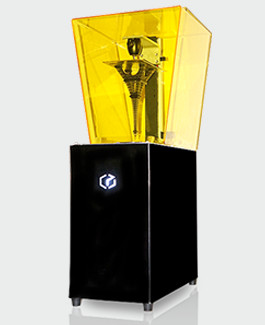
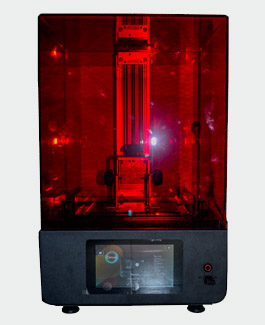
Добавлены отзывы и изменены изображения принтера

diff --git a/index.html b/index.html
@@ -16,6 +16,45 @@
     <title>Заказ 3D печати в Запорожье - цены на услуги 3Д печати | maxi-life.in.ua</title>
   </head>
     <body>
+<!-- Google.Analytics counter -->
+      <script>
+        (function(i,s,o,g,r,a,m){i['GoogleAnalyticsObject']=r;i[r]=i[r]||function(){
+        (i[r].q=i[r].q||[]).push(arguments)},i[r].l=1*new Date();a=s.createElement(o),
+        m=s.getElementsByTagName(o)[0];a.async=1;a.src=g;m.parentNode.insertBefore(a,m)
+        })(window,document,'script','https://www.google-analytics.com/analytics.js','ga');
+
+        ga('create', 'UA-93646705-1', 'auto');
+        ga('send', 'pageview');
+
+      </script>
+<!-- end Google.Analytics counter -->
+<!-- Yandex.Metrika counter -->
+      <script type="text/javascript">
+          (function (d, w, c) {
+              (w[c] = w[c] || []).push(function() {
+                  try {
+                      w.yaCounter43428764 = new Ya.Metrika({
+                          id:43428764,
+                          clickmap:true,
+                          trackLinks:true,
+                          accurateTrackBounce:true
+                      });
+                  } catch(e) { }
+              });
+
+              var n = d.getElementsByTagName("script")[0],
+                  s = d.createElement("script"),
+                  f = function () { n.parentNode.insertBefore(s, n); };
+              s.type = "text/javascript";
+              s.async = true;
+              s.src = "https://mc.yandex.ru/metrika/watch.js";
+              if (w.opera == "[object Opera]") {
+                  d.addEventListener("DOMContentLoaded", f, false);
+              } else { f(); }
+          })(document, window, "yandex_metrika_callbacks");
+      </script>
+      <noscript><div><img src="https://mc.yandex.ru/watch/43428764" style="position:absolute; left:-9999px;" alt="" /></div></noscript>
+<!-- /Yandex.Metrika counter -->
       <header class="main-header">
         <div class="container clear-fix">
           <div class="main-logo">
@@ -79,6 +118,7 @@
                   </span>
                 </a>
             </div>
+            <h1 class="nav-headline">Заказ 3D печати в Запорожье по доступным ценам.</h1>
           </nav>
         </div>
       </header>
@@ -187,9 +227,9 @@
             <!--модальные окна-->
             <div class="md-modal md-effect-14" id="modal-1">
     		    	<div class="md-content">
-                <p>HI!</p>
-                <p>Модальное окно 1</P>
-    					  <button class="md-close">Close me!</button>
+                <p>Миниатюра "Ждун"</p>
+                <p>Размеры: 4см х 3см х 6см</P>
+    					  <button class="md-close">Х</button>
     				  </div>
       			</div><!--конец модального окна-->
             <div class="md-modal md-effect-14" id="modal-2">
@@ -412,8 +452,8 @@
                       Быстро, качественно, дешево - выберите 2 важных для Вас пункта.
                     </p>
                     <p>тел: &nbsp; <span>+3(066)-550-19-16</span></p>
-                    <p>тел: &nbsp; <span>+3(066)-550-28-48</span></p>
-                    <p>e-mail: &nbsp; <span>sm@maxi-life.in.ua</span></p>
+                    <p>тел: &nbsp; <span>+3(068)-550-28-48</span></p>
+                    <p>e-mail: &nbsp; <span>maxims@maxi-life.in.ua</span></p>
                   </div>
                   <div class="triangle"></div>
                   <img src="img/team_2.jpg" title = "Максим Шумаков" alt="Максим Шумаков">
@@ -451,12 +491,14 @@
                       <div class="quite-up"></div>
                       <div class="quite-down"></div>
                       <p>
-                          Добрый день всем! Заказывал у этих ребят несколько макетов.
-                          Получилось отлично. Цена и качество очень порадовали.
+                        Уверен, ещё не раз буду обращаться! <br>
+                        Ваш профессионализм исполнения работы, порядочность,
+                        пунктуальность дают понимание того, что мой выбор был сделан правильно.<br>
+                        Всегда выполняют работу в срок, быстро и качественно.
                       </p>
                     </div>
                     <div class="reviews-profile-text-date">
-                      <p>14-11-2016</p>
+                      <p>10-03-2017</p>
                     </div>
                   </div>
                   <div class="cols col-2 reviews-profile">
@@ -474,19 +516,15 @@
                       <div class="quite-up"></div>
                       <div class="quite-down"></div>
                       <p>
-                        Lorem ipsum dolor sit amet, consectetur
-                        adipisicing elit, sed do eiusmod tempor
-                        incididunt ut labore et dolore magna aliqua.
-                        Ut enim ad minim veniam, quis nostrud exercitation
-                        ullamco laboris nisi ut aliquip ex ea commodo consequat.
-                        Duis aute irure dolor in reprehenderit in voluptate
-                        velit esse cillum dolore eu fugiat nulla pariatur.
-                        Excepteur sint occaecat cupidatat non proident, sunt in
-                        culpa qui officia deserunt mollit anim id est laborum.
+                        Спасибо.
+                        Все быстро, оперативно и качественно.
+                        Несмотря на то, что задача оказалась несколько сложнее чем предполагалось,
+                        исполнитель справился на отлично.
+                        Будем в дальнейшем обращаться.
                       </p>
                     </div>
                     <div class="reviews-profile-text-date">
-                      <p>14-11-2016</p>
+                      <p>02-03-2017</p>
                     </div>
                   </div>
                   <div class="cols col-2 reviews-profile">
@@ -504,23 +542,16 @@
                       <div class="quite-up"></div>
                       <div class="quite-down"></div>
                       <p>
-                          Делали для меня несколько статуэток.
-                          Была приятно удивлена быстротой выполнения заказа.
-                          А так же порадовал профессиональный подход,
-                          посоветовали как добится желаемого результата.
-                          Lorem ipsum dolor sit amet, consectetur
-                          adipisicing elit, sed do eiusmod tempor
-                          incididunt ut labore et dolore magna aliqua.
-                          Ut enim ad minim veniam, quis nostrud exercitation
-                          ullamco laboris nisi ut aliquip ex ea commodo consequat.
-                          Duis aute irure dolor in reprehenderit in voluptate
-                          velit esse cillum dolore eu fugiat nulla pariatur.
-                          Excepteur sint occaecat cupidatat non proident, sunt in
-                          culpa qui officia deserunt mollit anim id est laborum.
+                        Прекрасная работа, быстро и качественно.
+                        Задание выполнено с опережением сроков, по ходу работы
+                        возникали изменения, все они принимались безоговорочно,
+                        работа выполнена грамотно и качественно. <br>
+                        Заказ на отлично и в срок.
+                        Ещё раз убеждаюсь в его профессионализме.
                       </p>
                     </div>
                     <div class="reviews-profile-text-date">
-                      <p>10-12-2016</p>
+                      <p>01-03-2017</p>
                     </div>
                   </div>
                   <div class="cols col-2 reviews-profile">
@@ -538,37 +569,14 @@
                       <div class="quite-up"></div>
                       <div class="quite-down"></div>
                       <p>
-                        Lorem ipsum dolor sit amet, consectetur
-                        adipisicing elit, sed do eiusmod tempor
-                        incididunt ut labore et dolore magna aliqua.
-                        Ut enim ad minim veniam, quis nostrud exercitation
-                        ullamco laboris nisi ut aliquip ex ea commodo consequat.
-                        Duis aute irure dolor in reprehenderit in voluptate
-                        velit esse cillum dolore eu fugiat nulla pariatur.
-                        Excepteur sint occaecat cupidatat non proident, sunt in
-                        culpa qui officia deserunt mollit anim id est laborum.
-                        Lorem ipsum dolor sit amet, consectetur
-                        adipisicing elit, sed do eiusmod tempor
-                        incididunt ut labore et dolore magna aliqua.
-                        Ut enim ad minim veniam, quis nostrud exercitation
-                        ullamco laboris nisi ut aliquip ex ea commodo consequat.
-                        Duis aute irure dolor in reprehenderit in voluptate
-                        velit esse cillum dolore eu fugiat nulla pariatur.
-                        Excepteur sint occaecat cupidatat non proident, sunt in
-                        culpa qui officia deserunt mollit anim id est laborum.
-                        Lorem ipsum dolor sit amet, consectetur
-                        adipisicing elit, sed do eiusmod tempor
-                        incididunt ut labore et dolore magna aliqua.
-                        Ut enim ad minim veniam, quis nostrud exercitation
-                        ullamco laboris nisi ut aliquip ex ea commodo consequat.
-                        Duis aute irure dolor in reprehenderit in voluptate
-                        velit esse cillum dolore eu fugiat nulla pariatur.
-                        Excepteur sint occaecat cupidatat non proident, sunt in
-                        culpa qui officia deserunt mollit anim id est laborum.
+                        Подходом к работе остался доволен.
+                        Время всегда распределяет точно и соблюдает сроки.
+                        Спасибо за работу и терпение!
+                        Надеюсь на долгое сотрудничество.
                       </p>
                     </div>
                     <div class="reviews-profile-text-date">
-                      <p>10-12-2016</p>
+                      <p>18-02-2017</p>
                     </div>
                   </div>
                   <div class="cols col-2 reviews-profile">
@@ -576,6 +584,81 @@
                       <img src="img/profile.png" alt="profile">
                       <div class="profile-name">
                         <p>Саша</p>
+                      </div>
+                    </div>
+                  </div>
+                </div>
+                <div class="reviews-gallery-content clear-fix">
+                  <div class="cols col-9 reviews-content">
+                    <div class="reviews-content-text">
+                      <div class="quite-up"></div>
+                      <div class="quite-down"></div>
+                      <p>
+                        Всегда на связи, подробно отвечает на все вопросы.
+                        Адекватный и толковый исполнитель.
+                        Быстро и качественно!
+                        Все выполнил в срок.
+                      </p>
+                    </div>
+                    <div class="reviews-profile-text-date">
+                      <p>09-02-2017</p>
+                    </div>
+                  </div>
+                  <div class="cols col-2 reviews-profile">
+                    <div class="reviews-profile-icon">
+                      <img src="img/profile.png" alt="profile">
+                      <div class="profile-name">
+                        <p>Макс</p>
+                      </div>
+                    </div>
+                  </div>
+                </div>
+                <div class="reviews-gallery-content clear-fix">
+                  <div class="cols col-9 reviews-content">
+                    <div class="reviews-content-text">
+                      <div class="quite-up"></div>
+                      <div class="quite-down"></div>
+                      <p>
+                        Заказывала для сына набор фигур для настольной игры.
+                        Качество и цена приятно удивили.
+                        Очень рада, что успели ко дню рождения. Огромное спасибо за профессиональный подход к делу!
+                        Осталась очень довольна.
+                      </p>
+                    </div>
+                    <div class="reviews-profile-text-date">
+                      <p>01-02-2017</p>
+                    </div>
+                  </div>
+                  <div class="cols col-2 reviews-profile">
+                    <div class="reviews-profile-icon">
+                      <img src="img/profile.png" alt="profile">
+                      <div class="profile-name">
+                        <p>Маша</p>
+                      </div>
+                    </div>
+                  </div>
+                </div>
+                <div class="reviews-gallery-content clear-fix">
+                  <div class="cols col-9 reviews-content">
+                    <div class="reviews-content-text">
+                      <div class="quite-up"></div>
+                      <div class="quite-down"></div>
+                      <p>
+                        Про услуги 3D печати узнал совсем недавно, решил для себя попробовать,
+                        насколько интересно и рентабельно, а самое главное качественно получатся изделия для моего бизнеса.
+                        Не пожалел тем, что обратился в Maxi-life. Действительно, ребята подходят к делу с головой.
+                        А самое главное, нашли подход к такому требовательному клиенту, как я!
+                      </p>
+                    </div>
+                    <div class="reviews-profile-text-date">
+                      <p>23-01-2017</p>
+                    </div>
+                  </div>
+                  <div class="cols col-2 reviews-profile">
+                    <div class="reviews-profile-icon">
+                      <img src="img/profile.png" alt="profile">
+                      <div class="profile-name">
+                        <p>Владимир</p>
                       </div>
                     </div>
                   </div>

diff --git a/css/style.css b/css/style.css
@@ -12,7 +12,6 @@ body{
   margin: 0 auto;
   background: #191919;
   color: #ffffff;
-  color: #ffffff;
   font-family:'Rubik', 'Arial' , sans-serif;
   text-transform: uppercase;
   font-size: 100%/1.5em;
@@ -401,6 +400,12 @@ body{
 }
 /*end main-menu effect*/
 
+.nav-headline{
+  text-align: center;
+  color: #505050;
+  font-size: 0.8em;
+}
+
 .say-hello{
   position: relative;
   background: rgba(255, 255, 255, 0.7) url("../img/bg_main.jpg") no-repeat;
@@ -469,7 +474,7 @@ body{
   cursor: pointer;
   background: inherit;
   text-decoration: none;
-  text-shadow: 0px 2px 1.5px black;
+  font-weight: bold;
   line-height: normal;
   color: #666666;
   text-align: center;
@@ -723,8 +728,8 @@ body{
 	top: 50%;
 	left: 50%;
 	width: 50%;
-	max-width: 330px;
-	min-width: 220px;
+	max-width: 30%;
+	min-width: 20%;
 	height: auto;
 	z-index: 2000;
 	visibility: hidden;
@@ -762,22 +767,27 @@ body{
 }
 
 .md-content {
-	color: #fff;
-	background: black;
+  min-height: 25em;
+	color: #505050;
+	background: #eff0f2;
 	position: relative;
-	border-radius: 3px;
 	margin: 0 auto;
 }
 
-.md-content > div p {
-	margin: 0;
-	padding: 10px 0;
+.md-content p {
+  text-align: center;
+  text-transform: none;
+  font-size: 1.3em;
+}
+
+.md-content p:nth-child(2){
+  font-size: 0.8em;
 }
 
 .md-content button {
 	display: block;
 	margin: 0 auto;
-	font-size: 0.8em;
+	font-size: 1em;
 }
 
 /* Effect 14:  3D Rotate from bottom */
@@ -1131,8 +1141,13 @@ body{
   color: #767070;
 }
 
+.say p:last-child span{
+  font-size: 0.96em;
+  vertical-align: text-top;
+}
+
 .say p span:hover{
-  color: #b7b6b6;
+  color: #fff;
 }
 
 .reviews{
@@ -1256,12 +1271,12 @@ body{
 
 .profile-name{
   width: 100%;
-  margin-top: 1em;
 }
 
 .profile-name p{
   text-align: center;
   font-size: 0.75em;
+  font-weight: 600;
   text-transform: none;
   color: #021623;
 }

diff --git a/googled8ce0c2e0cdad2de.html b/googled8ce0c2e0cdad2de.html
@@ -1,0 +1,1 @@
+google-site-verification: googled8ce0c2e0cdad2de.html

diff --git a/js/mail.php b/js/mail.php
@@ -1,7 +1,7 @@
 <?php
 
 $method = $_SERVER['REQUEST_METHOD'];
-	$admin_email = "developer@maxi-life.in.ua";
+	$admin_email = "maxims@maxi-life.in.ua";
 //Script Foreach
 $c = true;
 if ( $method === 'POST' ) {
